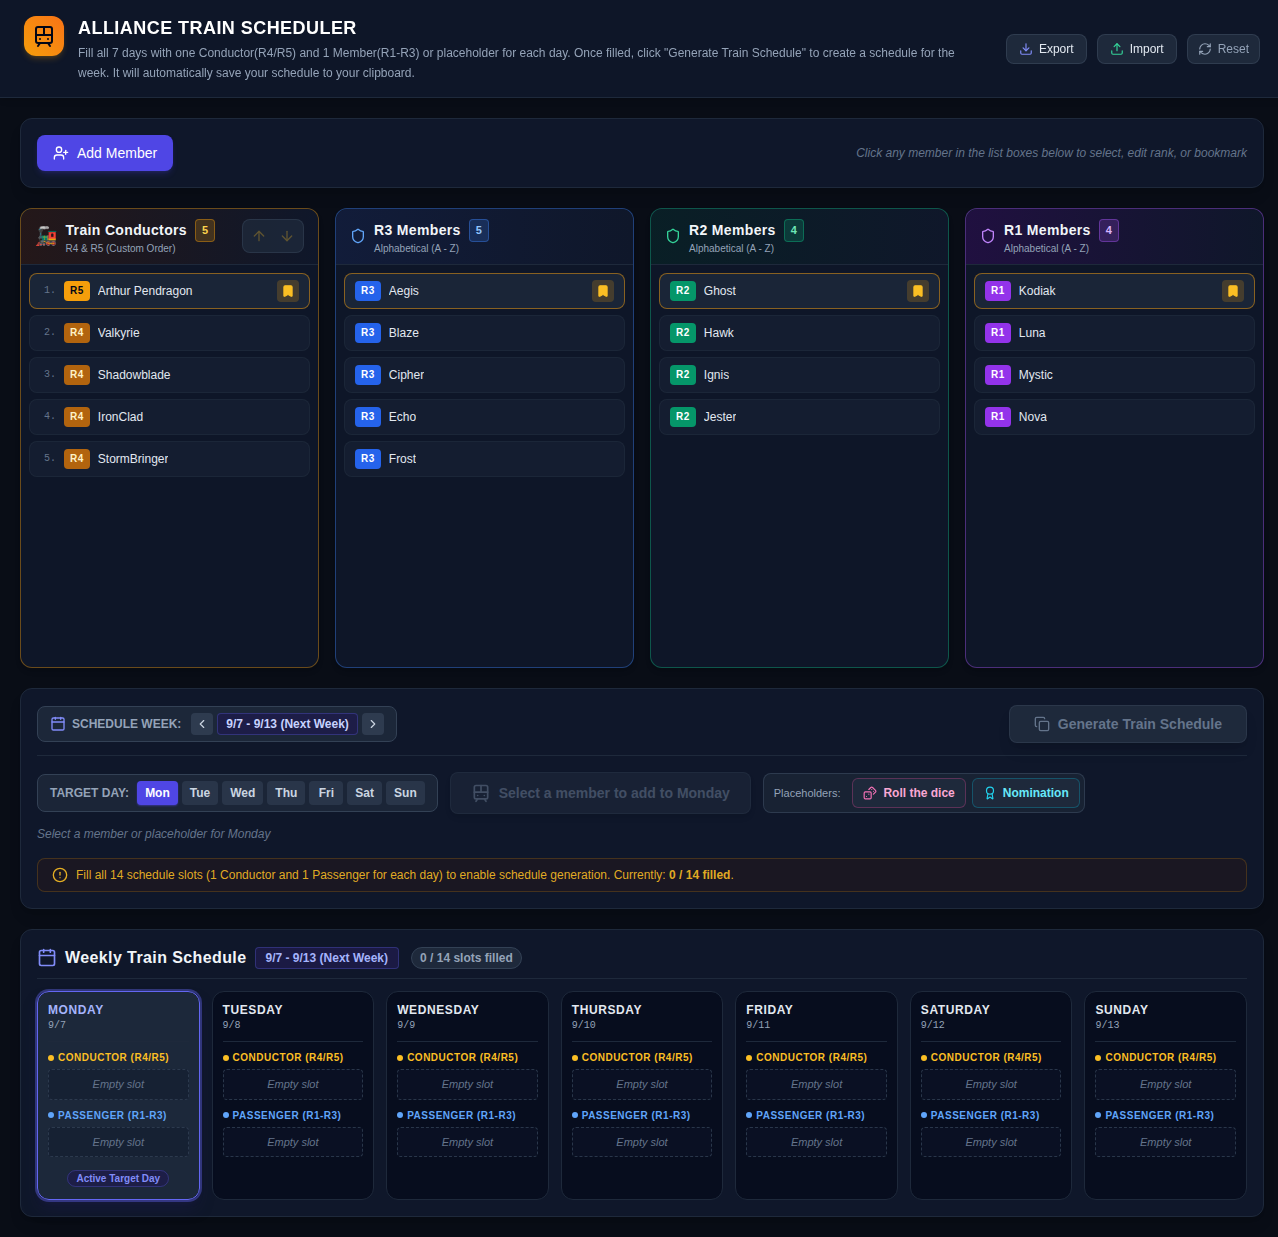
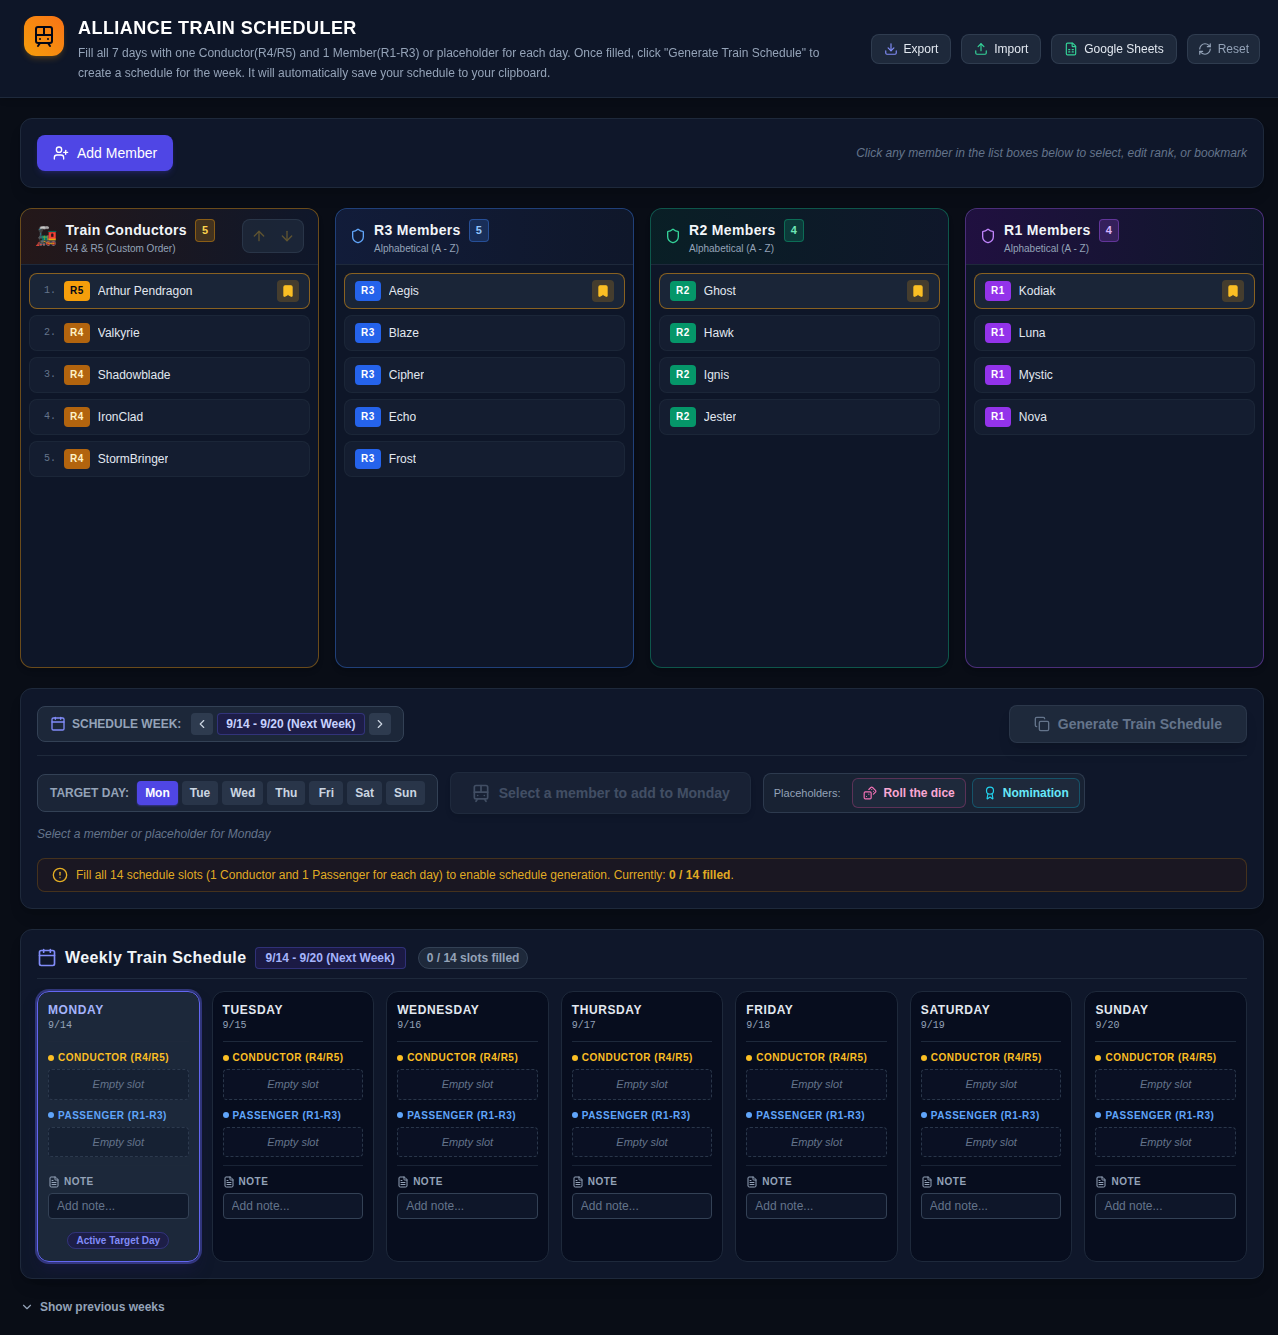
add latest screenshot of the scheduler with a populated sample roster to README

diff --git a/README.md b/README.md
@@ -17,6 +17,8 @@ A desktop scheduler for organizing a seven-day alliance train. Assign one R4/R5 
 
 ## Screenshots
 
+Latest screen capture of the scheduler with a populated sample roster:
+
 ![Alliance Train Scheduler with a sample roster loaded](docs/screenshots/scheduler-populated.png)
 
 ## Requirements
